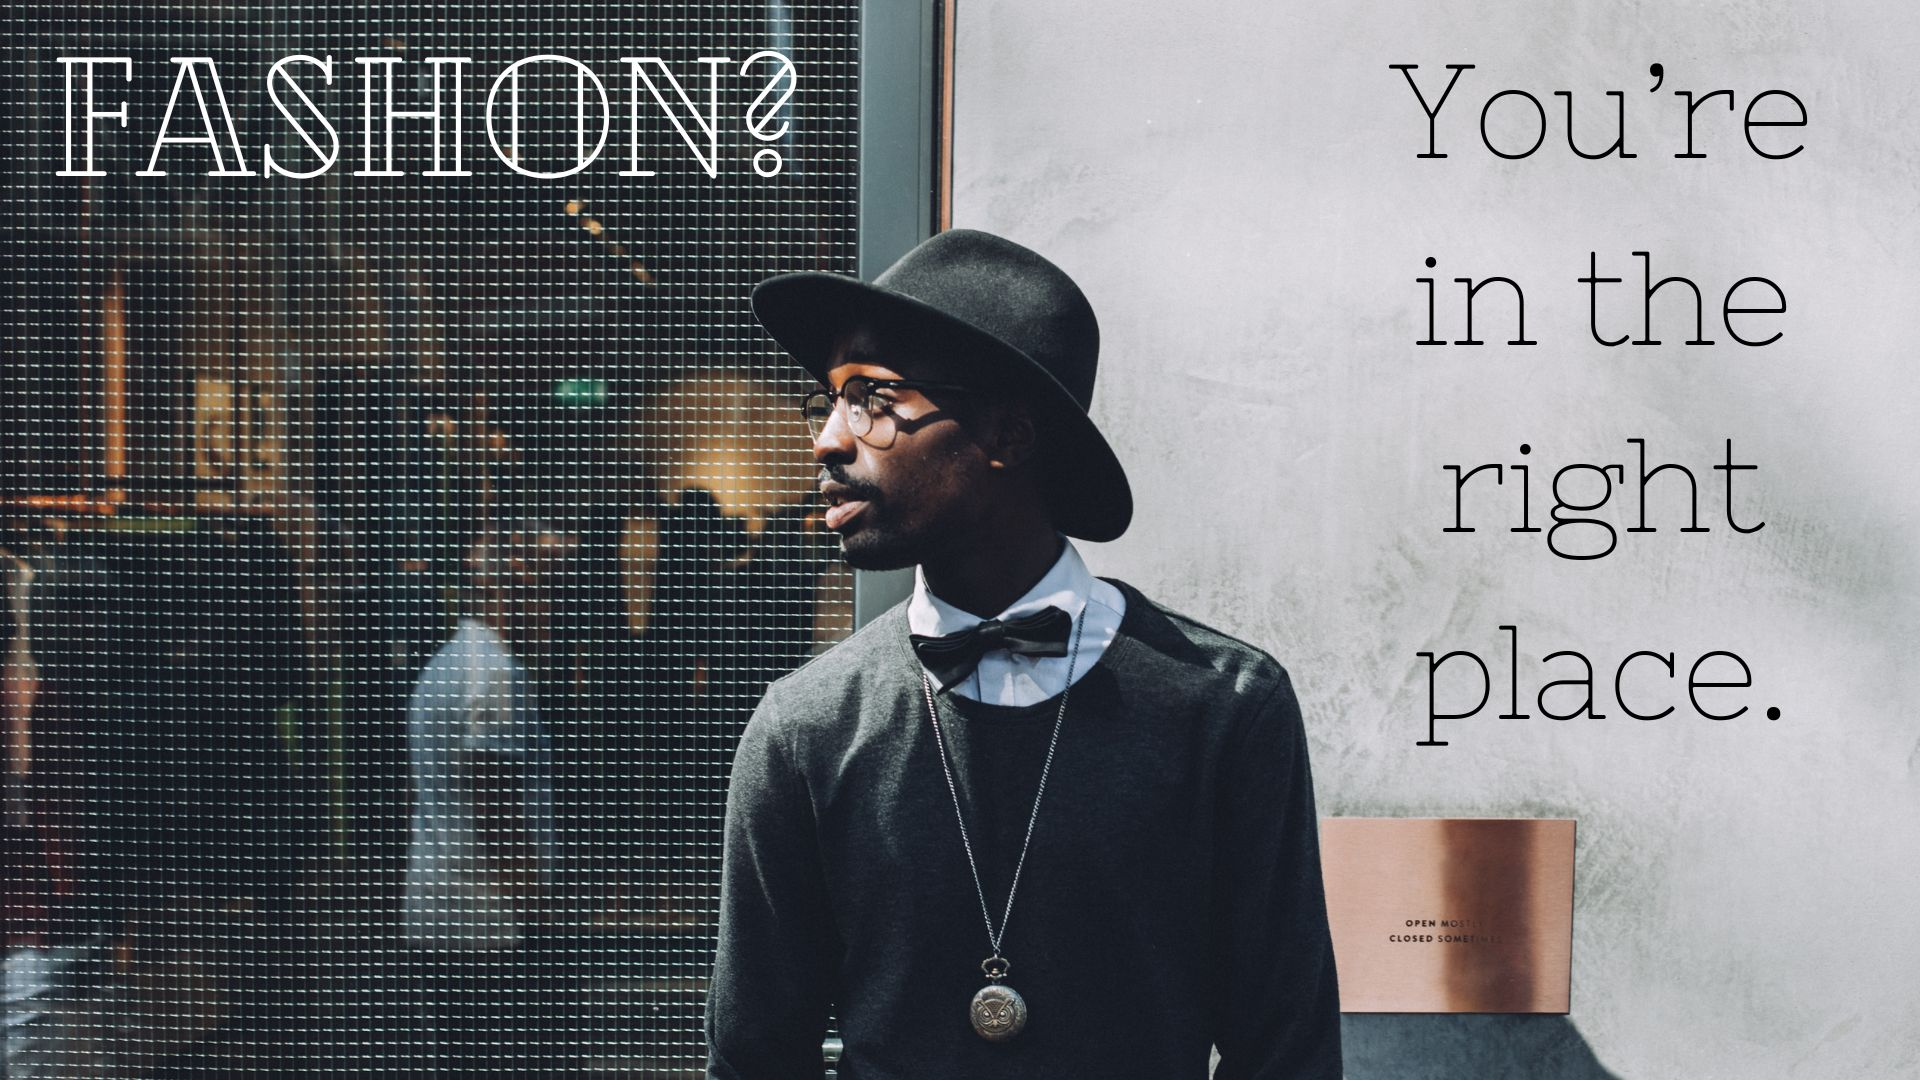
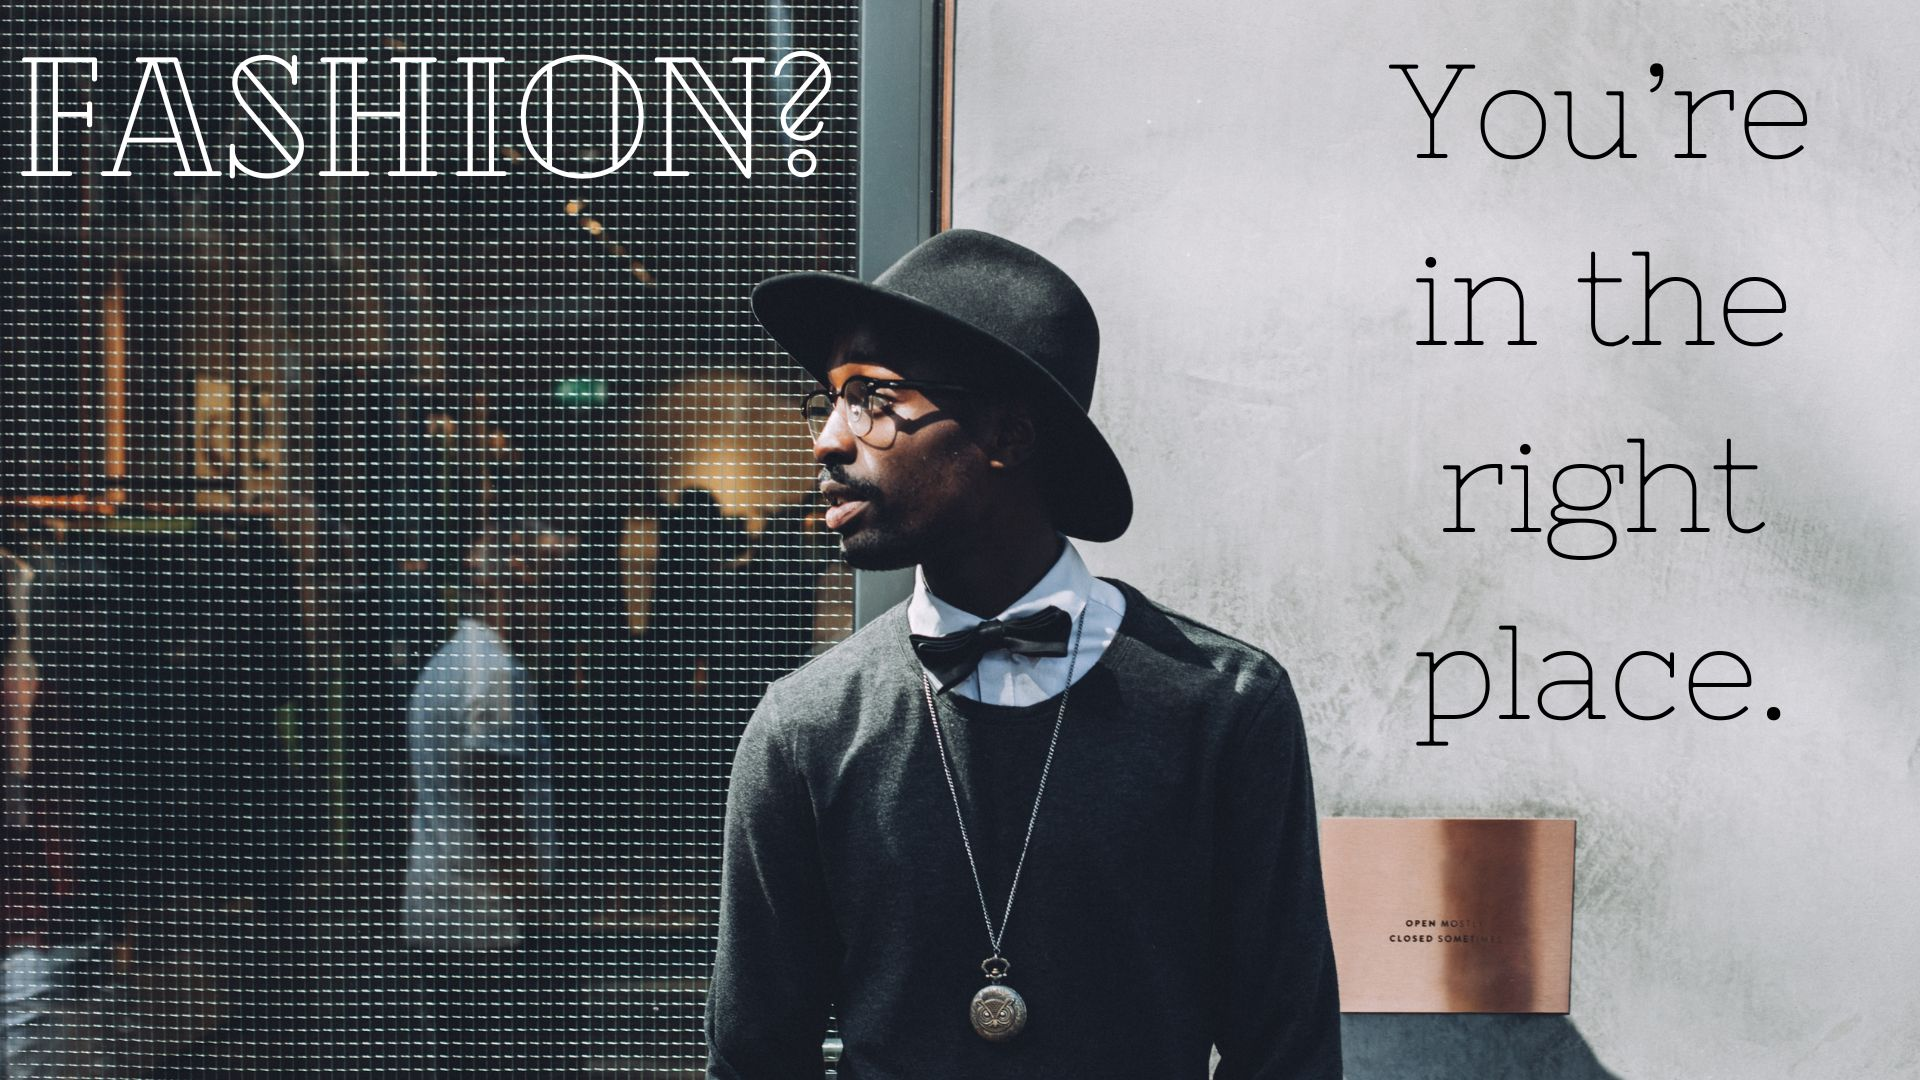
Homepages added

Changed region(s): [[0.0, 0.0306, 0.4375, 0.1833]]

diff --git a/index.html b/index.html
@@ -5,14 +5,15 @@
 
     <script type="text/javascript" src="homejs.js"></script>
     <link rel="stylesheet" href="homecss.css">
+    <script type="text/javascript" src="ProductsPage/productsjs.js"></script>
 </head>
         
 <body>
     <div id="navbar">
         <ul>
-            <li><h3>Fashonable</h3></li>
+            <li><h3>Fashionable</h3></li>
             <li><a href="#about">About</a></li>        
-            <li><a href="#contact">Contact</a></li>
+            <li><a href="contact.html">Contact</a></li>
             <li><a href="ProductsPage/Products.html">Product</a></li>
             <li><a class="active" href="#home">Home</a></li>
         </ul>
@@ -21,21 +22,21 @@
     <img id="mainimg" src="Fashon.jpg"></img>
     <h1 id="hotdeals">Hot Deals right now.</h1>
 
-    <img class="hotdealsimg" id="nike-shoes" src="nikeshoes-hotdeals.jpg" onmouseover="hoverzoom(this.id)" onmouseout="hoverzoomout(this.id)"></img>  
-    <img class="hotdealsimg" id="nike-shirt" src="justinshirt.webp" onmouseover="hoverzoom(this.id)" onmouseout="hoverzoomout(this.id)"></img>
-    <img class="hotdealsimg" id="nike-shorts" src="justinshorts.webp" onmouseover="hoverzoom(this.id)" onmouseout="hoverzoomout(this.id)"></img>
-    <img class="hotdealsimg" id="nike-bag" src="bag.webp" onmouseover="hoverzoom(this.id)" onmouseout="hoverzoomout(this.id)"></img>
+    <img class="hotdealsimg" onclick=producttype(this.id) id="goshoe" src="shoes.webp" onmouseover="hoverzoom(this.id)" onmouseout="hoverzoomout(this.id)"></img>  
+    <img class="hotdealsimg" onclick=producttype(this.id) id="gomen" src="justinshirt.webp" onmouseover="hoverzoom(this.id)" onmouseout="hoverzoomout(this.id)"></img>
+    <img class="hotdealsimg" onclick=producttype(this.id) id="gomen" src="justinshorts.webp" onmouseover="hoverzoom(this.id)" onmouseout="hoverzoomout(this.id)"></img>
+    <img class="hotdealsimg" onclick=producttype(this.id) id="gowomen" src="sportswear.webp" onmouseover="hoverzoom(this.id)" onmouseout="hoverzoomout(this.id)"></img>
 
     <br>
-    <p class="maintxt" id="nikeshoes-hotdeals-text" onmouseover="hoverzoom(this.id)" onmouseout="hoverzoomout(this.id)"> Air Max Shoes</p>
-    <p class="maintxt" id="nikeshirt-hotdeals-text" onmouseover="hoverzoom(this.id)" onmouseout="hoverzoomout(this.id)">Pullover fleece Hoodies</p>
-    <p class="maintxt" id="nikeshort-hotdeals-text" onmouseover="hoverzoom(this.id)" onmouseout="hoverzoomout(this.id)">Football Shorts</p>
-    <p class="maintxt" id="nikebag-hotdeals-text" onmouseover="hoverzoom(this.id)" onmouseout="hoverzoomout(this.id)">Cross Body Bag</p>
+    <p class="maintxt" onclick=producttype(this.id) id="nikeshes-hotdeals-text" onmouseover="hoverzoom(this.id)" onmouseout="hoverzoomout(this.id)">Air Max Excee</p>
+    <p class="maintxt" onclick=producttype(this.id) id="nikeshirt-hotdeals-text" onmouseover="hoverzoom(this.id)" onmouseout="hoverzoomout(this.id)">Pullover fleece Hoodies</p>
+    <p class="maintxt" onclick=producttype(this.id) id="nikeshort-hotdeals-text" onmouseover="hoverzoom(this.id)" onmouseout="hoverzoomout(this.id)">Football Shorts</p>
+    <p class="maintxt" onclick=producttype(this.id) id="niketshirt-hotdeals-text" onmouseover="hoverzoom(this.id)" onmouseout="hoverzoomout(this.id)">Sportswear Fleece</p>
     <br>
-    <p class="txt" id="nikeshoes-hotdeals-text-price"><s>₹8595</s>&nbsp;&nbsp;&nbsp;&nbsp;&nbsp;₹7305&nbsp;&nbsp;&nbsp;&nbsp;&nbsp;&nbsp;15% Off</p>  
+    <p class="txt" id="nikeshoes-hotdeals-text-price"><s>₹9194</s>&nbsp;&nbsp;&nbsp;&nbsp;&nbsp;₹7995&nbsp;&nbsp;&nbsp;&nbsp;&nbsp;&nbsp;15% Off</p>  
     <p class="txt" id="nikeshirt-hotdeals-text-price"><s>₹7995</s>&nbsp;&nbsp;&nbsp;&nbsp;&nbsp;₹6396&nbsp;&nbsp;&nbsp;&nbsp;&nbsp;&nbsp;20% Off</p>
     <p class="txt" id="nikeshort-hotdeals-text-price"><s>₹3095</s>&nbsp;&nbsp;&nbsp;&nbsp;&nbsp;₹2785&nbsp;&nbsp;&nbsp;&nbsp;&nbsp;&nbsp;10% Off</p>
-    <p class="txt" id="nikebag-hotdeals-text-price"><s>₹1595</s>&nbsp;&nbsp;&nbsp;&nbsp;&nbsp;₹1323&nbsp;&nbsp;&nbsp;&nbsp;&nbsp;&nbsp;17% Off</p>
+    <p class="txt" id="niketshirt-hotdeals-text-price"><s>₹10524</s>&nbsp;&nbsp;&nbsp;&nbsp;&nbsp;₹8995&nbsp;&nbsp;&nbsp;&nbsp;&nbsp;&nbsp;17% Off</p>
     
     <br><br><br><br><br>
     <h1 id="hotdeals">Trending Now.</h1>
@@ -43,10 +44,10 @@
 
     <img class="trendingimg" src="trendingshoes1.jpg"></img>
     <img class="trendingimg" src="trendingshoes2.jpg"></img>
-    <p class="trendingtxt">NIKE ZOOM TR1</p>
+    <p class="trendingtxt">NIKE AIR MAX</p>
     <p class="trendingsmall-txt">Light and responsive. Built for your workout and beyond.</p>
     <div style="text-align: center; padding-top: 15px;">
-        <button class="trendingshop-btn">Shop</button>
+        <button class="trendingshop-btn" id="goshoe" onclick=producttype(this.id)>Shop</button>
     </div>
     <br><br><br><br><br><br><br><br><br><br>
 
@@ -56,7 +57,7 @@
     <p class="trendingtxt">NIKE SPORTSWEAR</p>
     <p class="trendingsmall-txt">Crisp and clean. The smooth, woven taffeta fabric for cool comfort and classic style.</p>
     <div style="text-align: center; padding-top: 15px;">
-        <button class="trendingshop-btn">Shop</button>
+        <button class="trendingshop-btn" id="gomen" onclick=producttype(this.id)>Shop</button>
     </div>
     <br><br><br><br><br><br><br><br><br><br>
 
@@ -65,21 +66,21 @@
     <h1 id="hotdeals">The Essentials.</h1>
     <div class="essendiv">      
         <img class="essentials" id="essenmen" src="essentialsmen.webp"></img>
-        <button class="btn">Men</button>
+        <button class="btn" id="btnmen" onclick=producttype(this.id)>Men</button>
     </div>
     <div class="essendiv">      
         <img class="essentials" id="essenwomen" src="essentialswomen.webp"></img>
-        <button class="btn" id="btnwomen">Women</button>
+        <button class="btn" id="btnwomen" onclick=producttype(this.id)>Women</button>
     </div>
     <div class="essendiv">
         <img class="essentials" id="essenwomen" src="essentialsshoes.jpg"></img>
-        <button class="btn" id="btnacc">Accessories</button>
+        <button class="btn" id="btnacc" onclick=producttype(this.id)>Shoes</button>
     </div>
 
 
     
     <br><br><br><br><br>
-    <h1 id="more" onmouseover="hoverzoom(this.id)" onmouseout="hoverzoomout(this.id)">
+    <h1 id="more" onclick=producttype(this.id) onmouseover="hoverzoom(this.id)" onmouseout="hoverzoomout(this.id)">
         See More at Products!
     </h1>
     <br><br><br><br><br>

diff --git a/contactaboutcss.css b/contactaboutcss.css
@@ -1,0 +1,68 @@
+body {
+    margin: 0;
+    background-image: url("contourlinesbg.jpg");
+    background-size: 500px 500px;
+}
+ul {
+    list-style-type: none;
+    margin: 0;
+    padding: auto;
+    overflow: hidden;
+    border: 1px solid #e7e7e7;
+    background-color: #f3f3f3;
+    font-family: Helvetica;
+    position: fixed;
+    width: 100%;
+    top: 0;
+    background-image: url("stain_halftone_background.jpg");
+    background-size: 600px 600px;
+}
+
+li a {
+    float: right;
+    display: flex;
+    color: #666;
+    text-align: center;
+    padding: 25px 60px;
+    text-decoration: none;
+}
+
+li a:hover:not(.active) {
+    color: #04AA6D;
+}
+
+li a.active {
+    color: #ff5f5f;
+}
+
+li h3 {
+    font-family: 'Sacramento', cursive;
+    font-weight: 500;
+    text-align: center;
+    font-size: 45px;
+    float: left;
+    margin: 0;
+    padding-top: 5px;
+}
+
+#navbar {
+    z-index: 1;
+}
+
+
+h1 {
+    font-family: 'Poppins', cursive;
+    font-weight: 500;
+    text-align: center;
+    font-size: 45px;
+    margin: 0;
+    padding-top: 20px;
+}
+h2 {
+    font-family: 'Sacramento', cursive;
+    font-weight: 500;
+    text-align: center;
+    font-size: 35px;
+    margin: 0;
+    padding-top: 5px;
+}

diff --git a/contact.html b/contact.html
@@ -1,0 +1,33 @@
+<html>
+<head>
+    <link href="https://fonts.googleapis.com/css2?family=Bebas+Neue&family=Gabarito&family=Poppins&family=Quicksand:wght@300&family=Sacramento&display=swap" rel="stylesheet">
+    <title>Home - Fashonable</title>
+
+    <link rel="stylesheet" href="contactaboutcss.css">
+</head>
+        
+<body>
+    <div id="navbar">
+        <ul>
+            <li><h3>Fashionable</h3></li>
+            <li><a href="about.html">About</a></li>        
+            <li><a class="active" href="#contact">Contact</a></li>
+            <li><a href="ProductsPage/Products.html">Product</a></li>
+            <li><a href="index.html">Home</a></li>
+        </ul>
+    </div> 
+
+    <h1 style="margin-top: 75px;">Contact Us</h1>
+    <h2>000 800 919 0466 <br>Products & Orders: 03:30 - 21:30,<br> 7 days a week<br>
+        Company Info & Enquiries: 07:30 - 16:30, Monday - Friday<br>
+    </h2>
+    <h1>
+        24 hrs a day
+    </h1>
+    <h2>7 Days a week</h2>
+    <h1>We'll reply within</h1>
+    <h2>five business days</h2>
+    
+
+</body>
+</html>

diff --git a/about.html b/about.html
@@ -1,0 +1,26 @@
+<html>
+<head>
+    <link href="https://fonts.googleapis.com/css2?family=Bebas+Neue&family=Gabarito&family=Poppins&family=Quicksand:wght@300&family=Sacramento&display=swap" rel="stylesheet">
+    <title>Home - Fashonable</title>
+
+    <link rel="stylesheet" href="contactaboutcss.css">
+</head>
+        
+<body>
+    <div id="navbar">
+        <ul>
+            <li><h3>Fashionable</h3></li>
+            <li><a class="active" href="#about">About</a></li>        
+            <li><a  href="contact.html">Contact</a></li>
+            <li><a href="ProductsPage/Products.html">Product</a></li>
+            <li><a href="index.html">Home</a></li>
+        </ul>
+    </div> 
+
+    <h1 style="margin-top: 75px;">This is a Web Application Project made by:</h1><br>
+    <h2 style="font-size: 60px;">Ashwin<br>&<br>Jeffrin<br>&<br>Rohit<br>:)</h2>
+    
+    
+
+</body>
+</html>

diff --git a/homecss.css b/homecss.css
@@ -92,7 +92,7 @@ li h3 {
     display: inline-block;
 }
 
-#nikeshoes-hotdeals-text {
+#nikeshes-hotdeals-text {
     padding-left: 105px;
 }
 #nikeshoes-hotdeals-text-price {
@@ -116,11 +116,11 @@ li h3 {
 }
 
 
-#nikebag-hotdeals-text {
-    padding-left: 121px;
+#niketshirt-hotdeals-text {
+    padding-left: 115px;
 }
-#nikebag-hotdeals-text-price {
-    padding-left: 110px;
+#niketshirt-hotdeals-text-price {
+    padding-left: 113px;
 }
 
 
@@ -219,7 +219,7 @@ li h3 {
 }
 
 #btnacc {
-    left: 21%;
+    left: 17%;
 }
 
 

diff --git a/homejs.js b/homejs.js
@@ -8,3 +8,5 @@ function hoverzoomout(id){
     img.style.scale = 1;
 }
 
+
+
